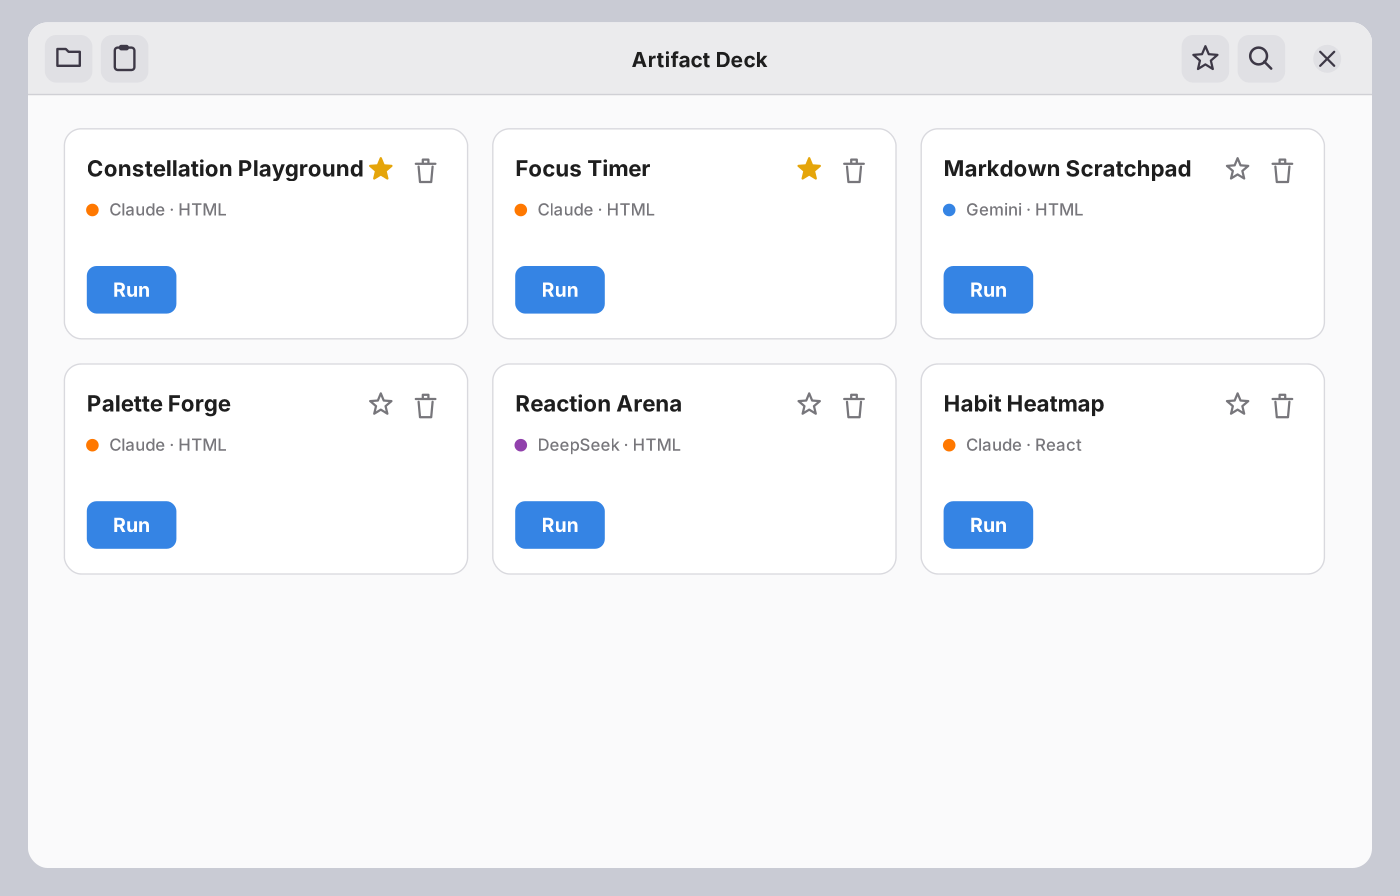
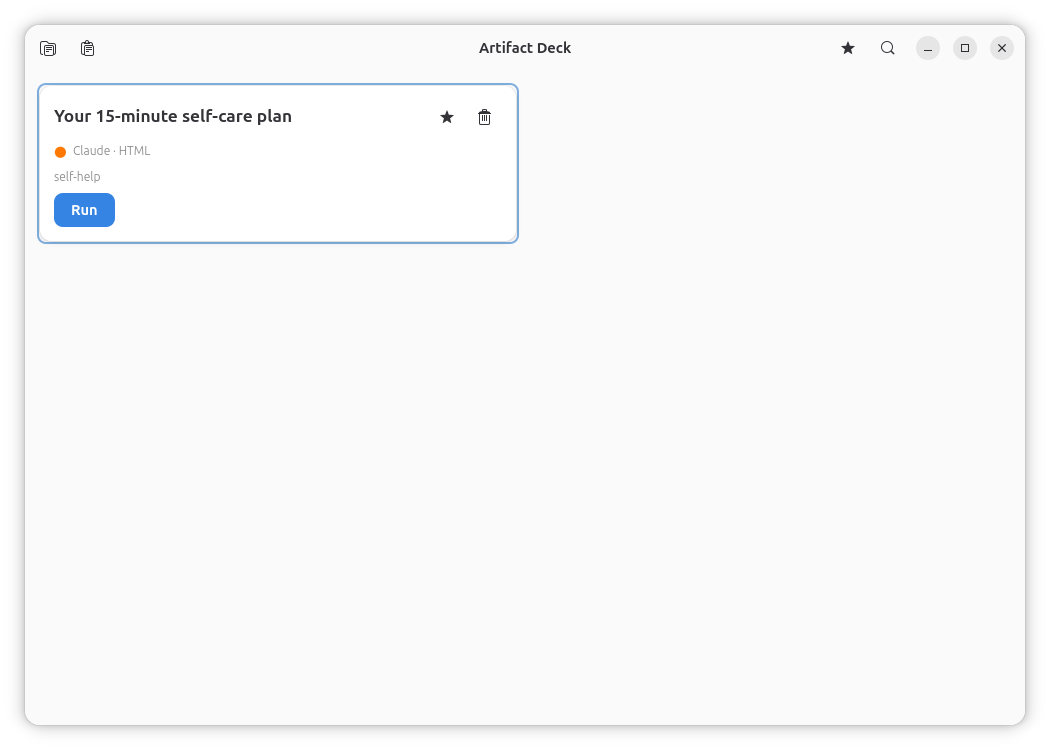
docs: real screenshots, CI badge, Flatpak-first install, accurate status

diff --git a/packing.md b/packing.md
@@ -6,7 +6,7 @@ Three ways to package the app, from simplest to safest. Pick one.
 |---|---|---|---|---|
 | **A. Zip + `install.sh`** | Your own machines, sharing with a friend | Very low | No | Install and uninstall tested in a fake home folder |
 | **B. `.deb` package** | A clean install and removal on Ubuntu | Low | No | Package build tested, GTK launch untested |
-| **C. Flatpak** | The strongest isolation | Medium | Yes | Not tested |
+| **C. Flatpak** | The strongest isolation | Medium | Yes | Built and running on Ubuntu 24.04 |
 
 If you are unsure, use **A** now and move to **C** later.
 
@@ -73,9 +73,9 @@ Notes:
 
 ## Option C: Flatpak (strongest isolation)
 
-The app then runs in its own container with no network permission at all, so even a hostile artifact has nowhere to send data. This is the best match for "run locally and safely". It was not tested here, so expect some trial and error on first build.
+The app then runs in its own container with no network permission at all, so even a hostile artifact has nowhere to send data. This is the best match for "run locally and safely". It has been built and run successfully on Ubuntu 24.04 (GNOME runtime 50).
 
-**Step 1.** Bundle the libraries (see the optional step above). A Flatpak with no network permission cannot download them later.
+**Step 1.** The libraries are already bundled in `vendor/` in this repo. If you removed them, re-download (see the optional step above) - a Flatpak with no network permission cannot fetch them later.
 
 **Step 2.** Install the tools once:
 
@@ -99,6 +99,7 @@ finish-args:
   - --socket=fallback-x11
   - --share=ipc
   - --device=dri
+  - --filesystem=xdg-data/artifact-deck:create
   # No --share=network on purpose.
 modules:
   - name: artifact-deck

diff --git a/README.md b/README.md
@@ -1,5 +1,7 @@
 # Artifact Deck
 
+![CI](https://github.com/sarperbey/artifact-deck/actions/workflows/ci.yml/badge.svg)
+
 A small desktop app for Ubuntu that keeps all your AI-made artifacts (from Claude, Gemini, DeepSeek and others) in one place and runs them **safely and offline**.
 
 ![Library view](screenshots/library.png)
@@ -15,6 +17,18 @@ A small desktop app for Ubuntu that keeps all your AI-made artifacts (from Claud
 - **Stays offline.** After a one-time library download, React artifacts with charts and icons run without a connection.
 
 ![Runner view](screenshots/runner.png)
+
+## Install
+
+**Recommended: Flatpak.** Ubuntu 24.04's AppArmor policy can block WebKitGTK's
+bubblewrap sandbox for native runs; the Flatpak build avoids that and adds
+OS-level network isolation.
+
+    flatpak install --user flathub org.gnome.Platform//50 org.gnome.Sdk//50
+    flatpak-builder --user --install --force-clean build-dir dev.local.ArtifactDeck.yml
+    flatpak run dev.local.ArtifactDeck
+
+See `install.md` for the native install and troubleshooting, `packing.md` for packaging.
 
 ## Using it
 
@@ -73,4 +87,7 @@ Back up or move that folder to take your library with you.
 | `packing.md` | How to turn it into an installable package |
 | `install.sh`, `uninstall.sh`, `make-deb.sh` | Helper scripts |
 | `data/` | App icon and menu entry |
-| `screenshots/` | Mockups used in this page |
+| `SECURITY.md` | Security policy and threat model |
+| `dev.local.ArtifactDeck.yml` | Flatpak build manifest |
+| `tests/` | Regression tests (run with pytest) |
+| `screenshots/` | Real app screenshots |

diff --git a/reader.md b/reader.md
@@ -1,5 +1,7 @@
 # Artifact Deck
 
+![CI](https://github.com/sarperbey/artifact-deck/actions/workflows/ci.yml/badge.svg)
+
 A small desktop app for Ubuntu that keeps all your AI-made artifacts (from Claude, Gemini, DeepSeek and others) in one place and runs them **safely and offline**.
 
 ![Library view](screenshots/library.png)
@@ -15,6 +17,18 @@ A small desktop app for Ubuntu that keeps all your AI-made artifacts (from Claud
 - **Stays offline.** After a one-time library download, React artifacts with charts and icons run without a connection.
 
 ![Runner view](screenshots/runner.png)
+
+## Install
+
+**Recommended: Flatpak.** Ubuntu 24.04's AppArmor policy can block WebKitGTK's
+bubblewrap sandbox for native runs; the Flatpak build avoids that and adds
+OS-level network isolation.
+
+    flatpak install --user flathub org.gnome.Platform//50 org.gnome.Sdk//50
+    flatpak-builder --user --install --force-clean build-dir dev.local.ArtifactDeck.yml
+    flatpak run dev.local.ArtifactDeck
+
+See `install.md` for the native install and troubleshooting, `packing.md` for packaging.
 
 ## Using it
 
@@ -73,4 +87,7 @@ Back up or move that folder to take your library with you.
 | `packing.md` | How to turn it into an installable package |
 | `install.sh`, `uninstall.sh`, `make-deb.sh` | Helper scripts |
 | `data/` | App icon and menu entry |
-| `screenshots/` | Mockups used in this page |
+| `SECURITY.md` | Security policy and threat model |
+| `dev.local.ArtifactDeck.yml` | Flatpak build manifest |
+| `tests/` | Regression tests (run with pytest) |
+| `screenshots/` | Real app screenshots |

diff --git a/install.md b/install.md
@@ -2,7 +2,7 @@
 
 For **Ubuntu 24.04 or newer** (GNOME desktop).
 
-> Status: the library, sandbox and React logic were tested in a headless browser. The GTK window itself has not yet been run on a real desktop, so a small first-launch fix is possible. Section 5 covers the likely problems.
+> Status: running and tested on Ubuntu 24.04 via the Flatpak build. Native runs can be blocked by AppArmor's user-namespace restriction - see Section 5.
 
 ## 1. Quick install (recommended)
 
@@ -51,6 +51,7 @@ The first time you run a **React** artifact, the app asks for a one-time downloa
 | `Namespace WebKit not available` or `WebKit 6.0 not found` | `sudo apt install gir1.2-webkit-6.0` |
 | `Namespace Adw not available` | `sudo apt install gir1.2-adw-1` |
 | `AttributeError` mentioning `AlertDialog`, `ToolbarView` or `NavigationView` | Your libadwaita is older than 1.5. Use Ubuntu 24.04 or newer |
+| `bwrap: setting up uid map: Permission denied` or `Failed to fully launch dbus-proxy` | Ubuntu's AppArmor blocks unprivileged user namespaces. Use the Flatpak build (`packing.md`) - do not disable the sandbox. |
 | Window opens but artifacts stay blank or the web process crashes | See the sandbox note below, then open the console (terminal button) for errors |
 | "Download failed" for React libraries | Check your internet connection and press the button again |
 | `.sh` file will not run by double-click | Always start it with `bash install.sh` from a terminal |
